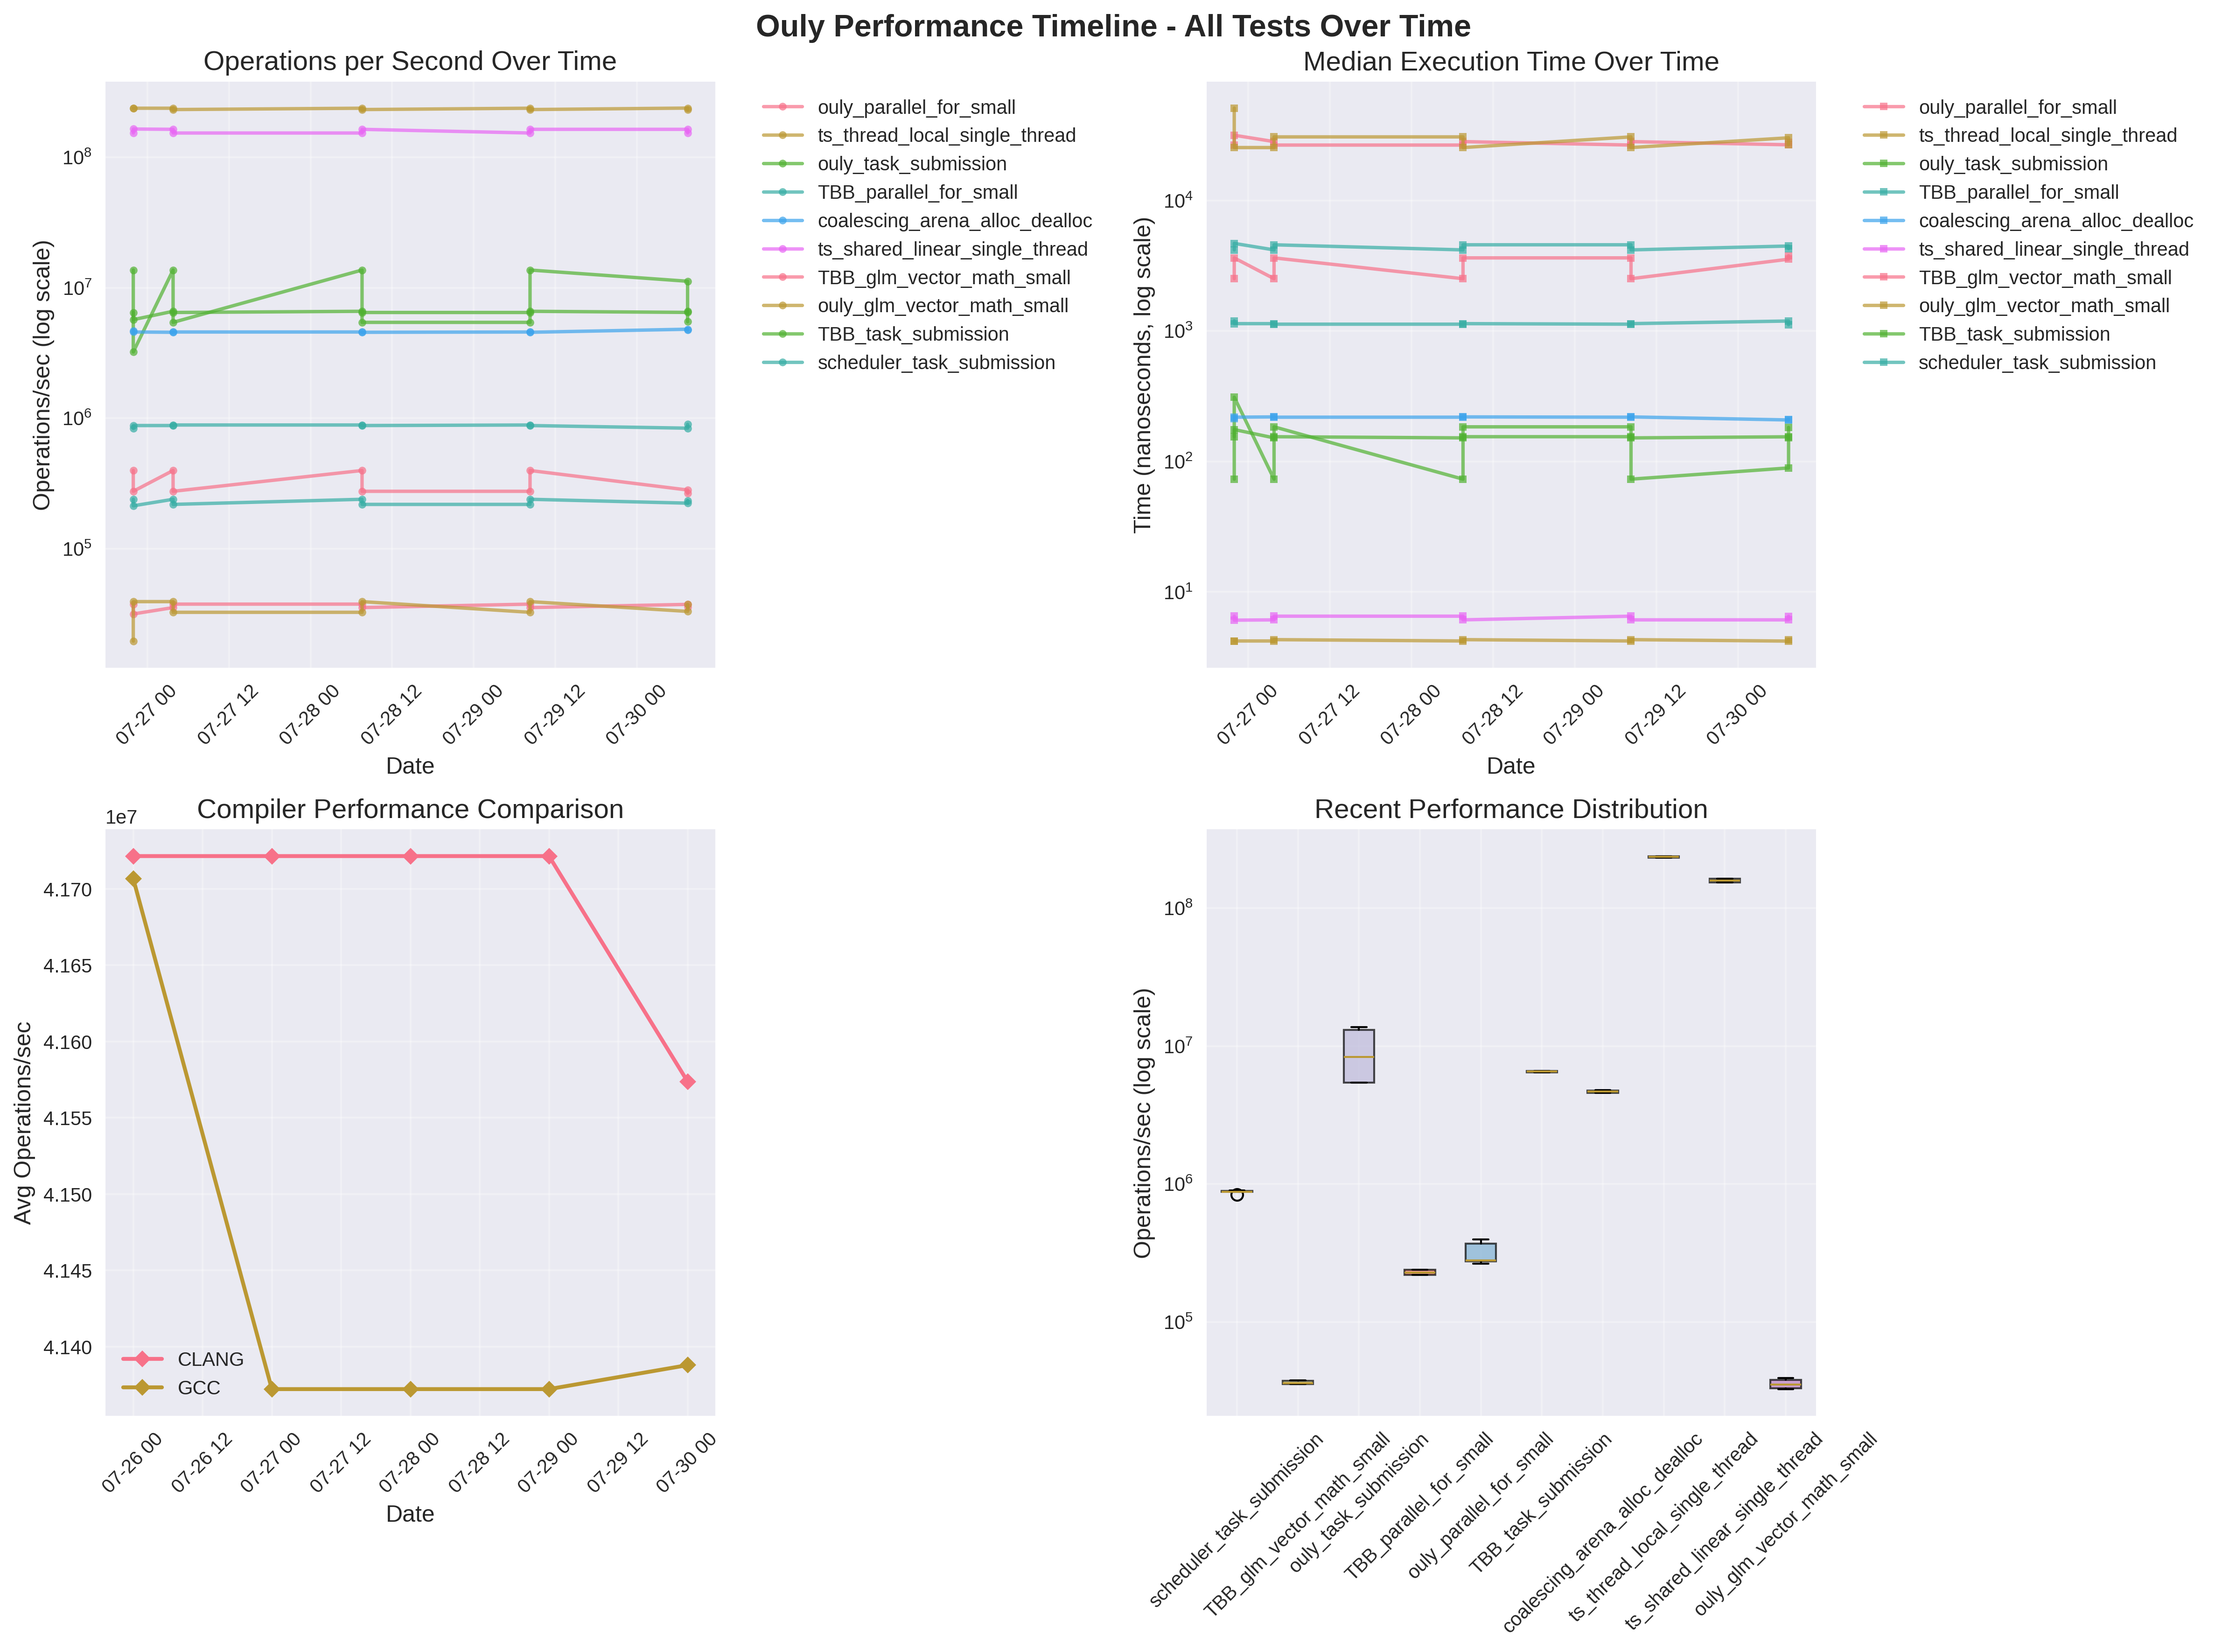
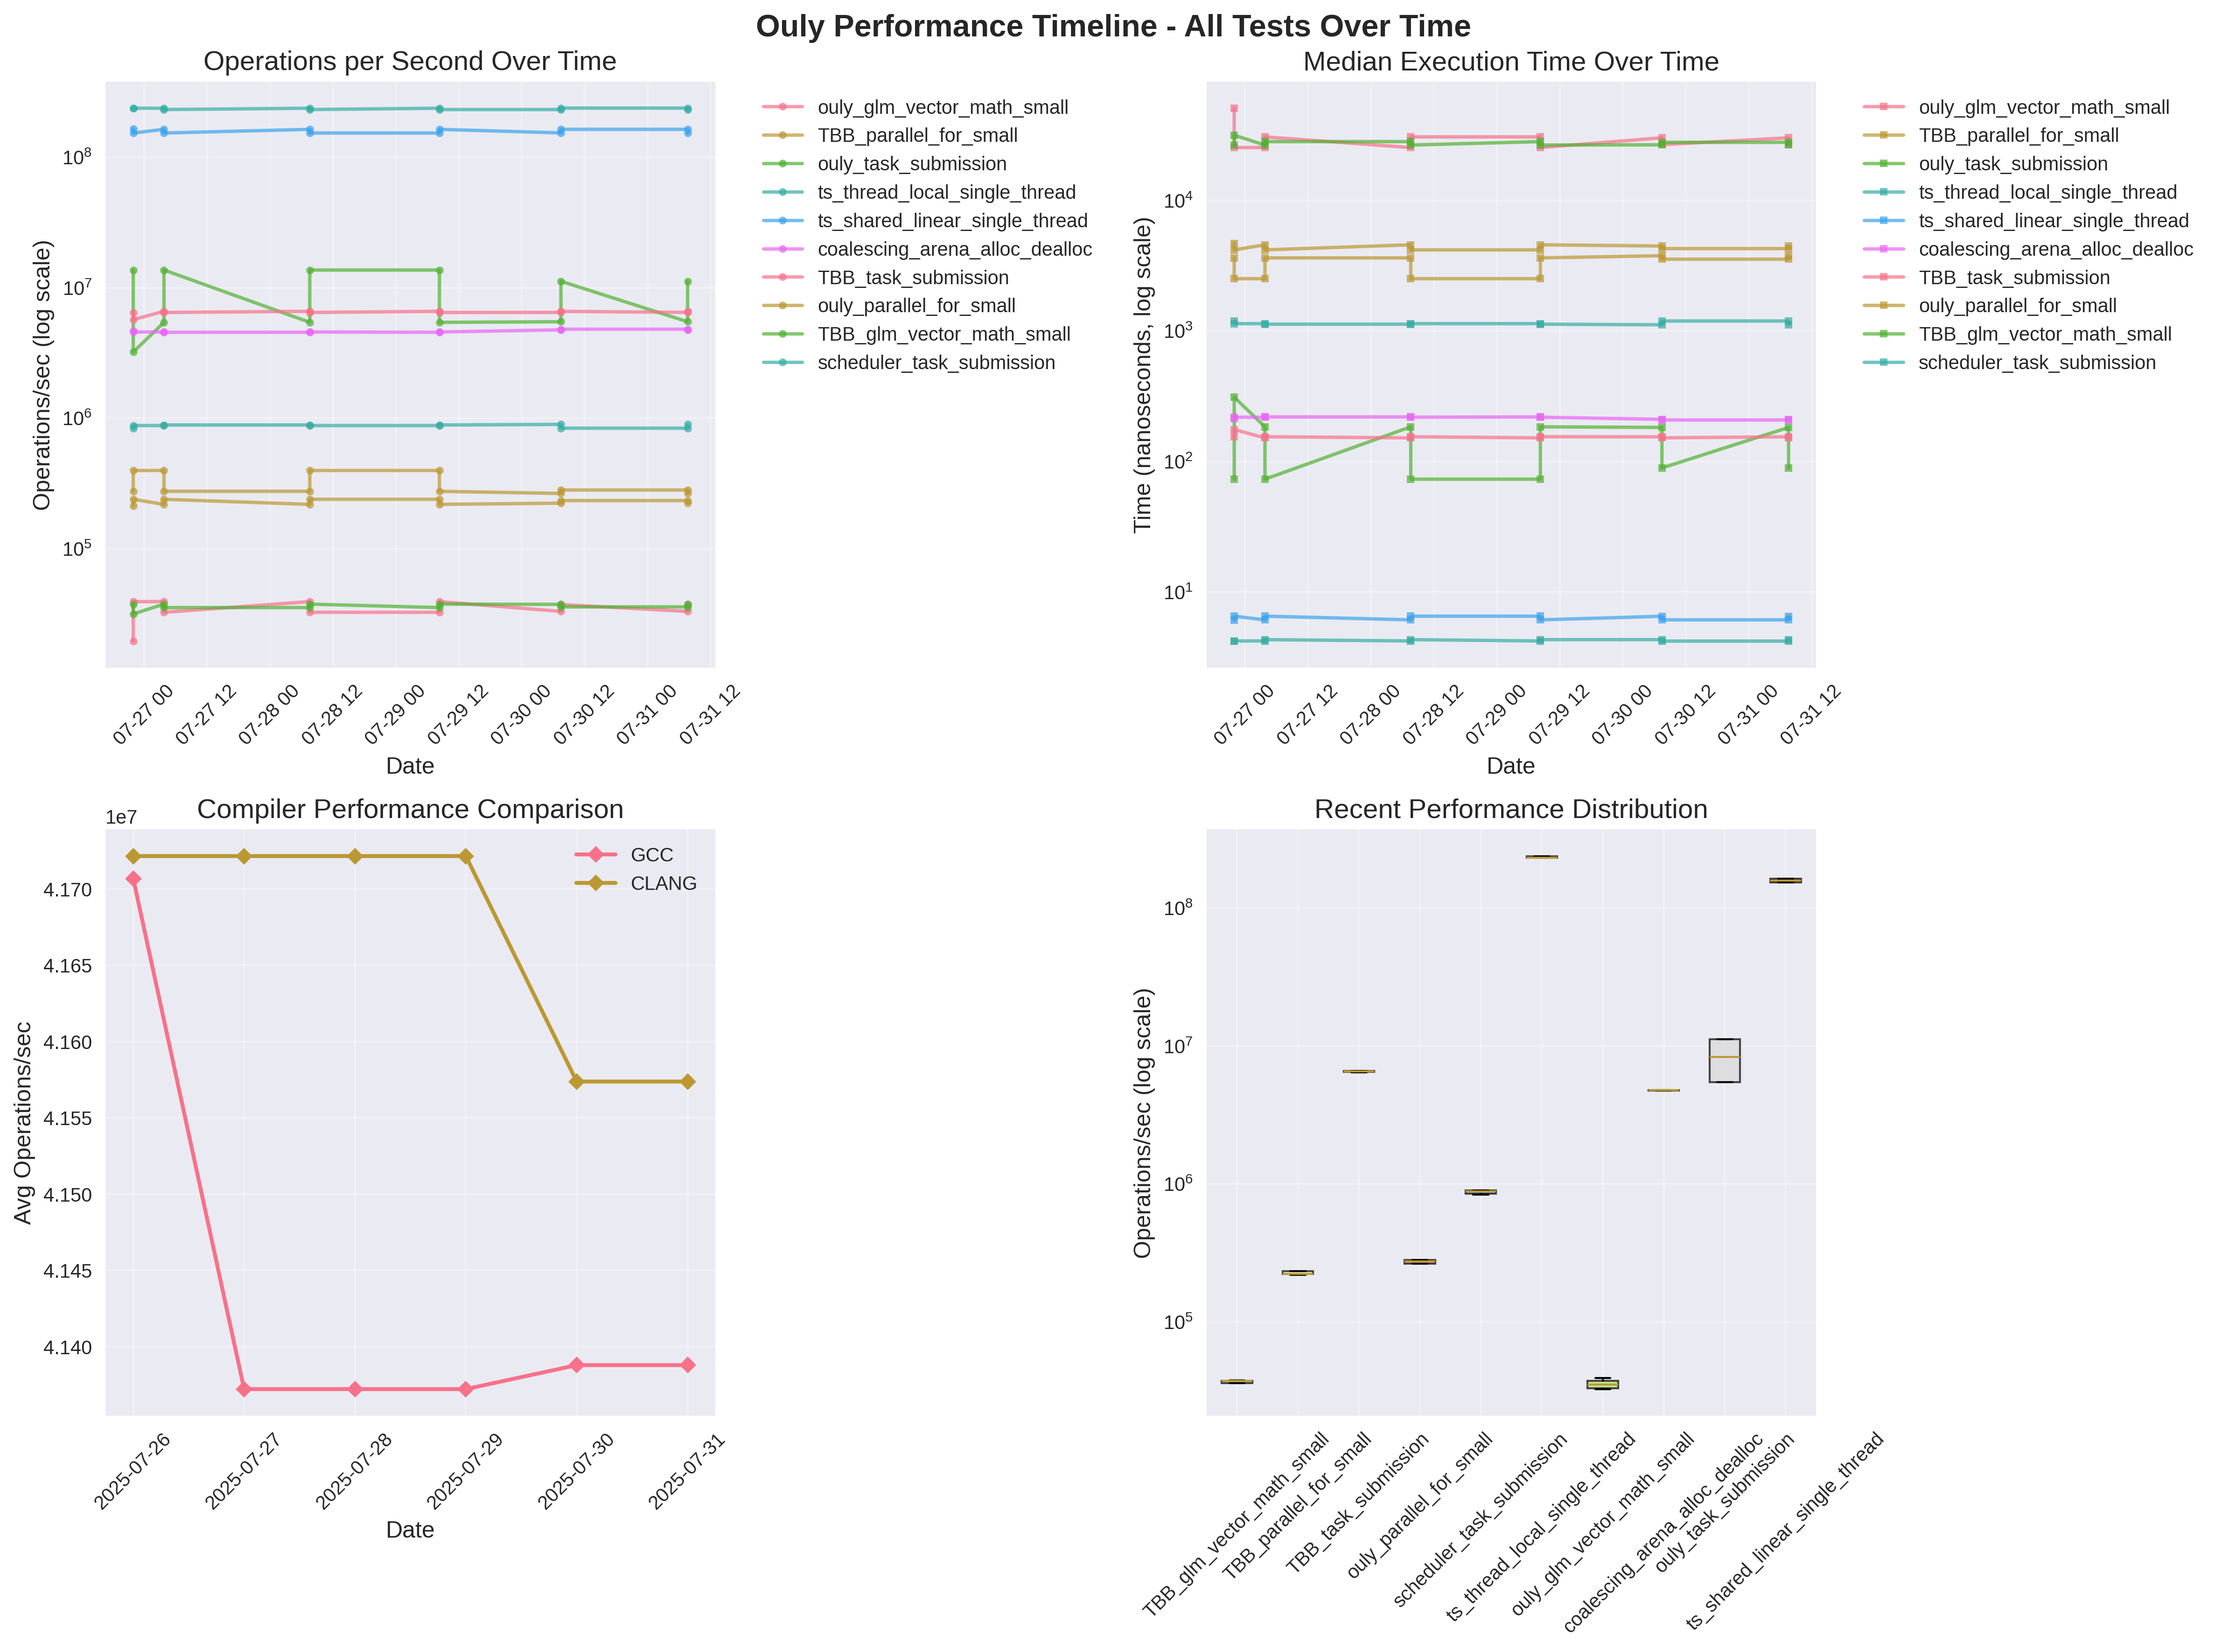
Update performance visualizations, PERFORMANCE.md and scripts for commit 4c9addcabf01df2caf42a8d2e7bba57584a861d5

diff --git a/performance-docs/performance_report.html b/performance-docs/performance_report.html
@@ -73,7 +73,7 @@
 <body>
     <div class="header">
         <h1>🚀 Ouly Performance Report</h1>
-        <p class="timestamp">Generated on 2025-07-30 07:44:03 UTC</p>
+        <p class="timestamp">Generated on 2025-07-31 07:38:54 UTC</p>
     </div>
 
     <div class="section">

diff --git a/visualizations/performance_report.html b/visualizations/performance_report.html
@@ -73,7 +73,7 @@
 <body>
     <div class="header">
         <h1>🚀 Ouly Performance Report</h1>
-        <p class="timestamp">Generated on 2025-07-30 07:43:54 UTC</p>
+        <p class="timestamp">Generated on 2025-07-31 07:38:45 UTC</p>
     </div>
 
     <div class="section">

diff --git a/performance-docs/PERFORMANCE.md b/performance-docs/PERFORMANCE.md
@@ -4,9 +4,9 @@ This document provides a comprehensive overview of Ouly's performance benchmarks
 
 ## 📊 Current Status
 
-- **Total Benchmark Runs**: 100
+- **Total Benchmark Runs**: 120
 - **Benchmark Types**: 10
-- **Last Updated**: 2025-07-30 07:26:58 UTC
+- **Last Updated**: 2025-07-31 07:35:01 UTC
 - **Tracking Branch**: `performance-tracking`
 
 ## 📈 Performance Timeline
@@ -118,4 +118,4 @@ Performance benchmarks guide:
 
 *This report is automatically updated with each commit to the main branch. For detailed benchmark data and interactive visualizations, visit the [performance-tracking branch](../../tree/performance-tracking).*
 
-*Generated on 2025-07-30 07:44:03 UTC by the Ouly Performance Visualization System.*
+*Generated on 2025-07-31 07:38:54 UTC by the Ouly Performance Visualization System.*

diff --git a/visualizations/PERFORMANCE.md b/visualizations/PERFORMANCE.md
@@ -4,9 +4,9 @@ This document provides a comprehensive overview of Ouly's performance benchmarks
 
 ## 📊 Current Status
 
-- **Total Benchmark Runs**: 100
+- **Total Benchmark Runs**: 120
 - **Benchmark Types**: 10
-- **Last Updated**: 2025-07-30 07:26:58 UTC
+- **Last Updated**: 2025-07-31 07:35:01 UTC
 - **Tracking Branch**: `performance-tracking`
 
 ## 📈 Performance Timeline
@@ -118,4 +118,4 @@ Performance benchmarks guide:
 
 *This report is automatically updated with each commit to the main branch. For detailed benchmark data and interactive visualizations, visit the [performance-tracking branch](../../tree/performance-tracking).*
 
-*Generated on 2025-07-30 07:43:54 UTC by the Ouly Performance Visualization System.*
+*Generated on 2025-07-31 07:38:45 UTC by the Ouly Performance Visualization System.*
